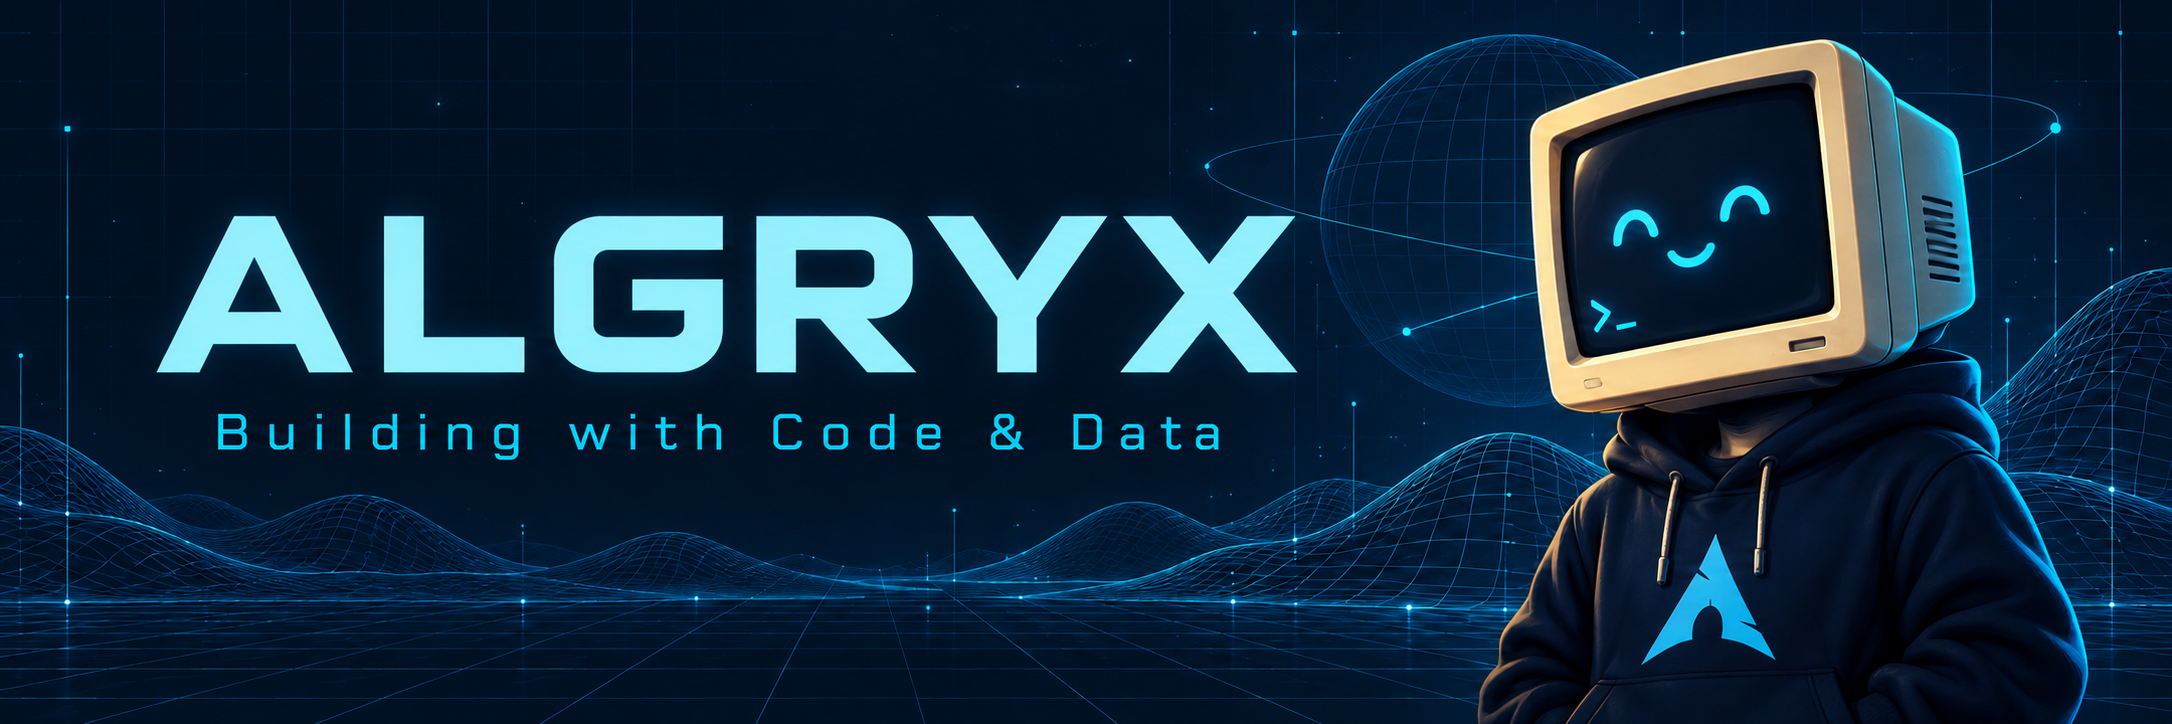
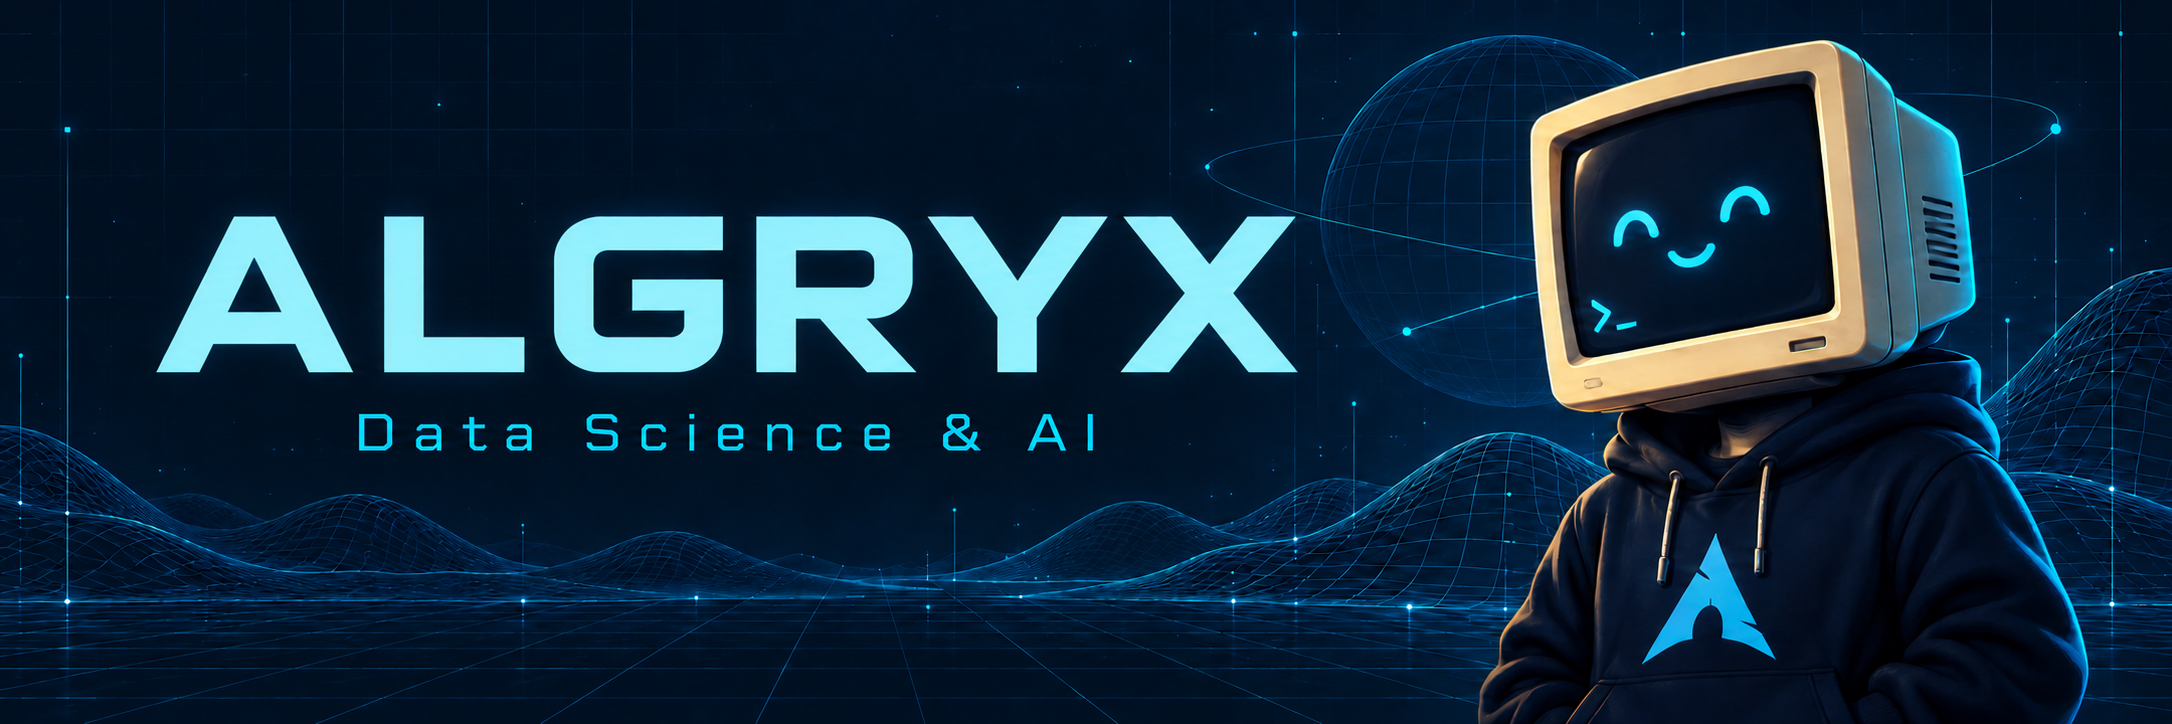
Add files via upload

diff --git a/README.md b/README.md
@@ -3,12 +3,12 @@
 </p>
 
 <h1 align="center">Hey, I'm Algryx 👋</h1>
-<h3 align="center">Building with Code &amp; Data</h3>
-<p align="center">Student · AI &amp; Data Science · Software Development</p>
+<h3 align="center">Data Science &amp; AI</h3>
+<p align="center">AI &amp; Data Science · Software Development</p>
 
 ## `01` · About me
 
-I'm a student interested in the space where software and data meet. AI and data science are my main focus, and I'm working toward a future in AI engineering.
+I'm interested in the space where software and data meet. AI and data science are my main focus, and I'm working toward a future in AI engineering.
 
 Python, Java, C++, and SQL form my programming foundation. I want to understand not just how to write code, but how to organize it, reason about it, and use it to solve problems.
 
@@ -25,75 +25,41 @@ direction  = AI engineering
 interests  = software, backend, APIs, automation, open source
 ```
 
-## `02` · My toolkit
-
-Languages and tools I work with as I build my foundation.
-
-### Languages
+## `02` · Languages
 
 <p>
   <img src="assets/python.svg" alt="Python" title="Python" width="48" height="48" />&nbsp;&nbsp;
   <img src="assets/java.svg" alt="Java" title="Java" width="48" height="48" />&nbsp;&nbsp;
   <img src="assets/cpp.svg" alt="C++" title="C++" width="48" height="48" />&nbsp;&nbsp;
   <img src="assets/sql.svg" alt="SQL" title="SQL" width="48" height="48" />&nbsp;&nbsp;
+  <img src="assets/html.svg" alt="HTML" title="HTML" width="48" height="48" />&nbsp;&nbsp;
+  <img src="assets/css.svg" alt="CSS" title="CSS" width="48" height="48" />&nbsp;&nbsp;
+  <img src="assets/javascript.svg" alt="JavaScript" title="JavaScript" width="48" height="48" />&nbsp;&nbsp;
+  <img src="assets/c.svg" alt="C" title="C" width="48" height="48" />&nbsp;&nbsp;
 </p>
 
-Python · Java · C++ · SQL
-
-### IDEs & editors
+## `03` · Things and tools that I use
 
 <p>
   <img src="assets/pycharm.svg" alt="PyCharm" title="PyCharm" width="48" height="48" />&nbsp;&nbsp;
   <img src="assets/intellij.svg" alt="IntelliJ IDEA" title="IntelliJ IDEA" width="48" height="48" />&nbsp;&nbsp;
   <img src="assets/vscode.svg" alt="VS Code" title="VS Code" width="48" height="48" />&nbsp;&nbsp;
-</p>
-
-PyCharm · IntelliJ IDEA · VS Code
-
-### Notebooks & databases
-
-<p>
   <img src="assets/jupyter.svg" alt="Jupyter" title="Jupyter" width="48" height="48" />&nbsp;&nbsp;
   <img src="assets/postgresql.svg" alt="PostgreSQL" title="PostgreSQL" width="48" height="48" />&nbsp;&nbsp;
-</p>
-
-Jupyter · PostgreSQL
-
-### Backend
-
-<p>
-  <img src="assets/fastapi.svg" alt="FastAPI" title="FastAPI" width="48" height="48" />
-</p>
-
-FastAPI
-
-### Development tools
-
-<p>
+  <img src="assets/fastapi.svg" alt="FastAPI" title="FastAPI" width="48" height="48" />&nbsp;&nbsp;
   <img src="assets/git.svg" alt="Git" title="Git" width="48" height="48" />&nbsp;&nbsp;
   <img src="assets/docker.svg" alt="Docker" title="Docker" width="48" height="48" />&nbsp;&nbsp;
-</p>
-
-Git · Docker
-
-### Operating systems
-
-<p>
   <img src="assets/windows.svg" alt="Windows" title="Windows" width="48" height="48" />&nbsp;&nbsp;
   <img src="assets/linux.svg" alt="Linux" title="Linux" width="48" height="48" />&nbsp;&nbsp;
   <img src="assets/archlinux.svg" alt="Arch Linux" title="Arch Linux" width="48" height="48" />&nbsp;&nbsp;
 </p>
 
-Windows · Linux · Arch Linux
-
-My Linux setup also includes Omarchy, an Arch-based configuration.
-
-## `03` · Connect
+## `04` · Connect
 
 [**X · @itsalgryx**](https://x.com/itsalgryx) &nbsp; / &nbsp; [**Instagram · @itsalgryx**](https://www.instagram.com/itsalgryx/)
 
 ---
 
-<p align="center"><code>&gt; Building with Code &amp; Data_</code></p>
+<p align="center"><code>&gt; Data Science &amp; AI_</code></p>
 
 <sub>Tool logos: Devicon. See <a href="CREDITS.md">asset credits</a>.</sub>

diff --git a/CREDITS.md b/CREDITS.md
@@ -25,3 +25,8 @@ Source files:
 The banner was generated for this profile. The README prose and arrangement are original; no text or personal assets from other GitHub profiles are included.
 
 - `fastapi.svg`: https://raw.githubusercontent.com/devicons/devicon/master/icons/fastapi/fastapi-original.svg
+
+- `html.svg`: https://raw.githubusercontent.com/devicons/devicon/master/icons/html5/html5-original.svg
+- `css.svg`: https://raw.githubusercontent.com/devicons/devicon/master/icons/css3/css3-original.svg
+- `javascript.svg`: https://raw.githubusercontent.com/devicons/devicon/master/icons/javascript/javascript-original.svg
+- `c.svg`: https://raw.githubusercontent.com/devicons/devicon/master/icons/c/c-original.svg
